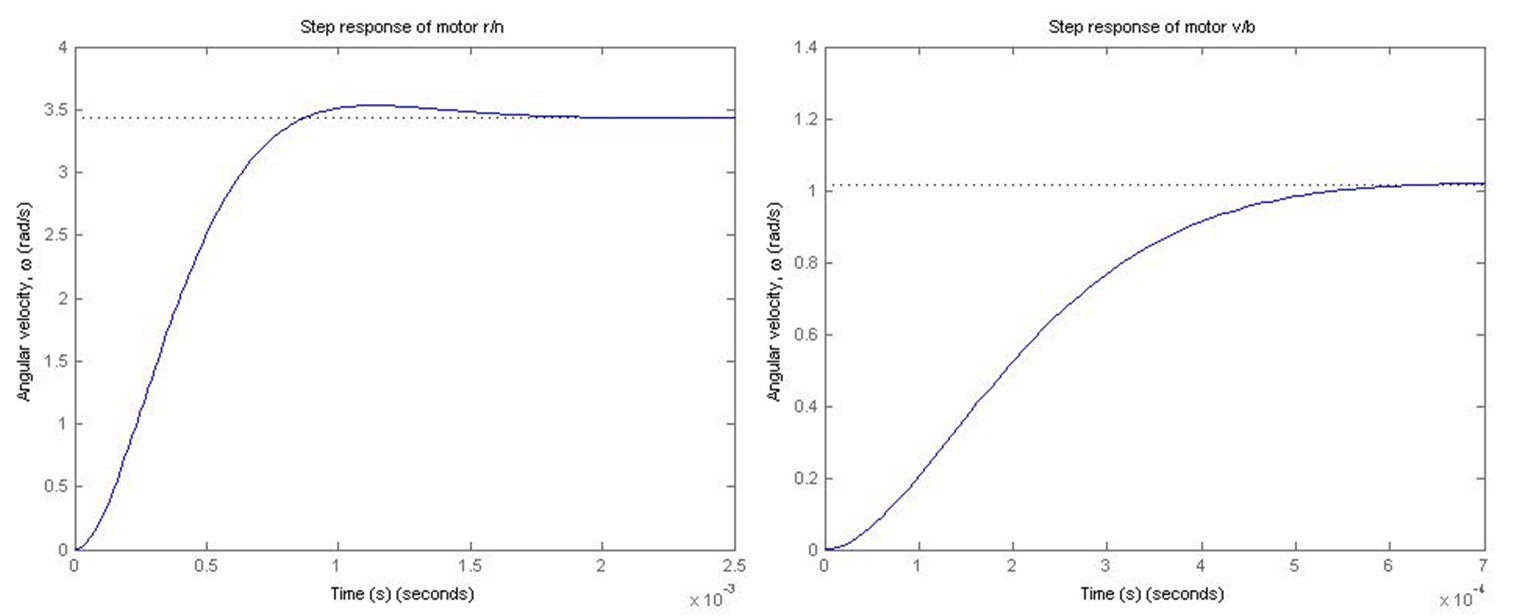
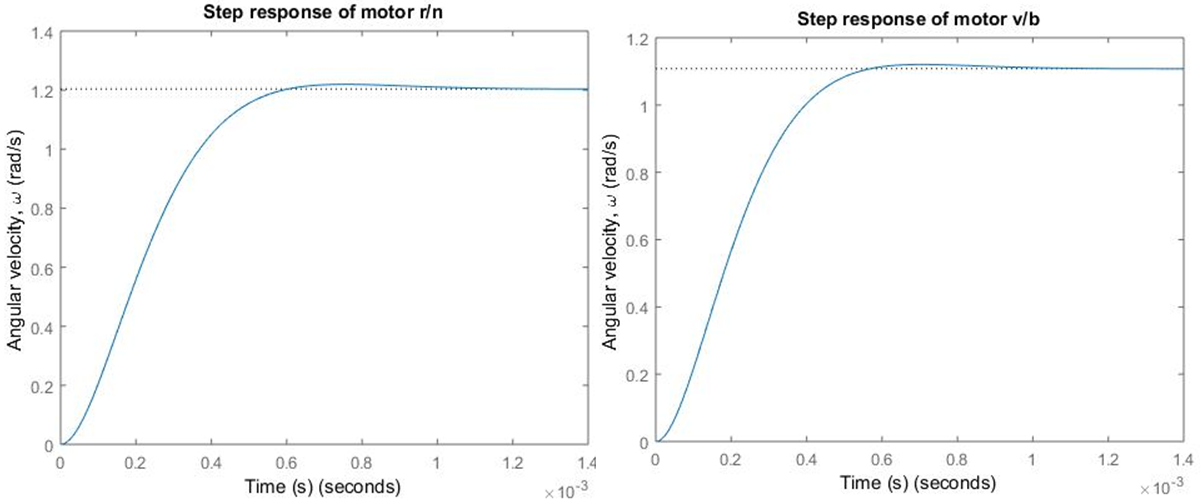
Se cambiaorn las imagenes del modelado de los motores

diff --git a/Motores/Modelado/Modelado_motores.m b/Motores/Modelado/Modelado_motores.m
@@ -1,9 +1,9 @@
 %MOTOR ROJO/NEGRO
-K1=0.28;
-R1=2.44;
+K1=0.32;
+R1=1.9;
 L1=300e-6;
 J1=19.3e-6;
-B1=0;
+B1=0.1;
 
 Num1=[K1];
 Den1=[L1*J1 R1*J1+B1*L1 B1*R1+K1^2];
@@ -16,11 +16,11 @@ xlabel('Time (s)');
 
 %MOTOR VERDE/BLANCO
 
-K2=0.33;
-R2=2.51;
+K2=0.35;
+R2=2.25;
 L2=300e-6;
 J2=19.3e-6;
-B2=0;
+B2=0.1;
 
 Num2=[K2];
 Den2=[L2*J2 (R2*J2+L2*B2) B2*R2+K2^2];
